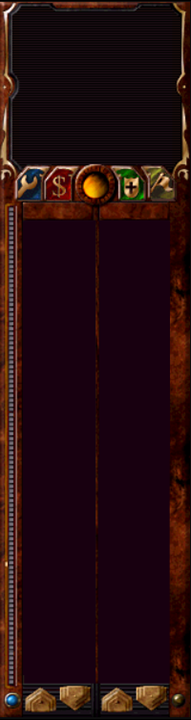
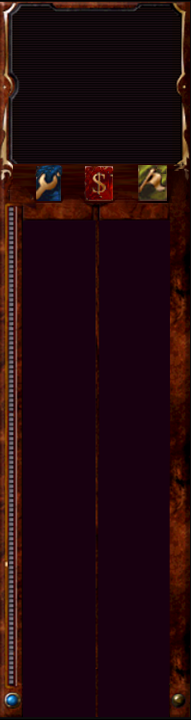
New hud + click recognition

Changed region(s): [[0.0524, 0.2139, 0.9948, 0.3056], [0.1047, 0.9167, 0.8901, 1.0]]

diff --git a/main.cpp b/main.cpp
@@ -51,10 +51,19 @@ void sleepcp(int milliseconds) // Cross-platform sleep function
 
 Camera cam(320,180,640,360,1280,720);
 
-
+void greet(SDL2pp::Renderer &game_renderer) {
+    std::string text = "Loading map... please wait";
+    SDL2pp::SDLTTF ttf;
+    SDL2pp::Font font("../src/ui/resources/fonts/beyond-mars.ttf", 64);
+	SDL2pp::Texture text_sprite(game_renderer, font.RenderText_Blended(text, SDL_Color{255, 255, 255, 255}));
+	game_renderer.Copy(text_sprite, SDL2pp::NullOpt, SDL2pp::Rect((SCREEN_WIDTH/2 - text_sprite.GetWidth()/2), 
+        SCREEN_HEIGHT/2, text_sprite.GetWidth(), text_sprite.GetHeight()));
+    game_renderer.Present();
+}
 void run_sdl() {
     SDL2pp::Window game_window("Dune II",SDL_WINDOWPOS_UNDEFINED, SDL_WINDOWPOS_UNDEFINED,SCREEN_WIDTH, SCREEN_HEIGHT,SDL_WINDOW_ALWAYS_ON_TOP);
     SDL2pp::Renderer game_renderer(game_window, -1, SDL_RENDERER_ACCELERATED);
+    greet(game_renderer);
     Board board(45,25);
     SDL_Event event;
     std::vector<std::vector<cell_t>> cells = generate_random_map();
@@ -100,14 +109,26 @@ void run_sdl() {
     states.push_back(harvester_state);
     client_player.update(states);
     //Handle events on queue
-    while( true )
-    {
-        SDL_PollEvent( &event );
-        //User requests quit
-        if( event.type == SDL_QUIT )
-        {
-            game_window.Hide();
-            break;
+    bool running = true;
+    while(running)
+    {   
+        while (SDL_PollEvent( &event )) {
+            switch (event.type) {
+                //User requests quit
+                case SDL_QUIT:
+                    running = false;
+                    SDL_Quit();
+                    break;
+                //User clicks
+                case SDL_MOUSEBUTTONUP:
+                    if (event.button.button == SDL_BUTTON_LEFT) {
+                        std::cout << "Click izq \n";
+                    }
+                    else if (event.button.button == SDL_BUTTON_RIGHT) {
+                        std::cout << "Click der \n";
+                    }
+                    break;
+            }
         }
         int x, y;
 		SDL_GetMouseState( &x, &y );
@@ -140,8 +161,7 @@ void run_sdl() {
 
 
 int main(int argc, char *argv[]) {
-
-
+    
     /*
     QApplication a(argc, argv);
     a.setWindowIcon(QIcon("./src/resources/img/icon.png"));
@@ -155,7 +175,6 @@ int main(int argc, char *argv[]) {
 
     return a.exec();
     */
-
     run_sdl();
     return 0;
 }

diff --git a/src/client_gamemap.cpp b/src/client_gamemap.cpp
@@ -19,8 +19,7 @@ void MapCell::render(SDL2pp::Renderer & renderer){
 GameMap::GameMap(SDL2pp::Renderer & renderer,std::vector<std::vector<cell_t>> & cells) {
 	size_t dim_x = cells.size();
 	size_t dim_y = cells[0].size();
-	std::cout << dim_x << std::endl;
-	std::cout << dim_y << std::endl;
+	std::cout << "Generating map of size " << dim_x << "x" << dim_y << std::endl;
     for (size_t j = 0 ; j < dim_y ; j++) {
         for (size_t i = 0 ; i < dim_x ; i++) {
             switch(cells[i][j]){
